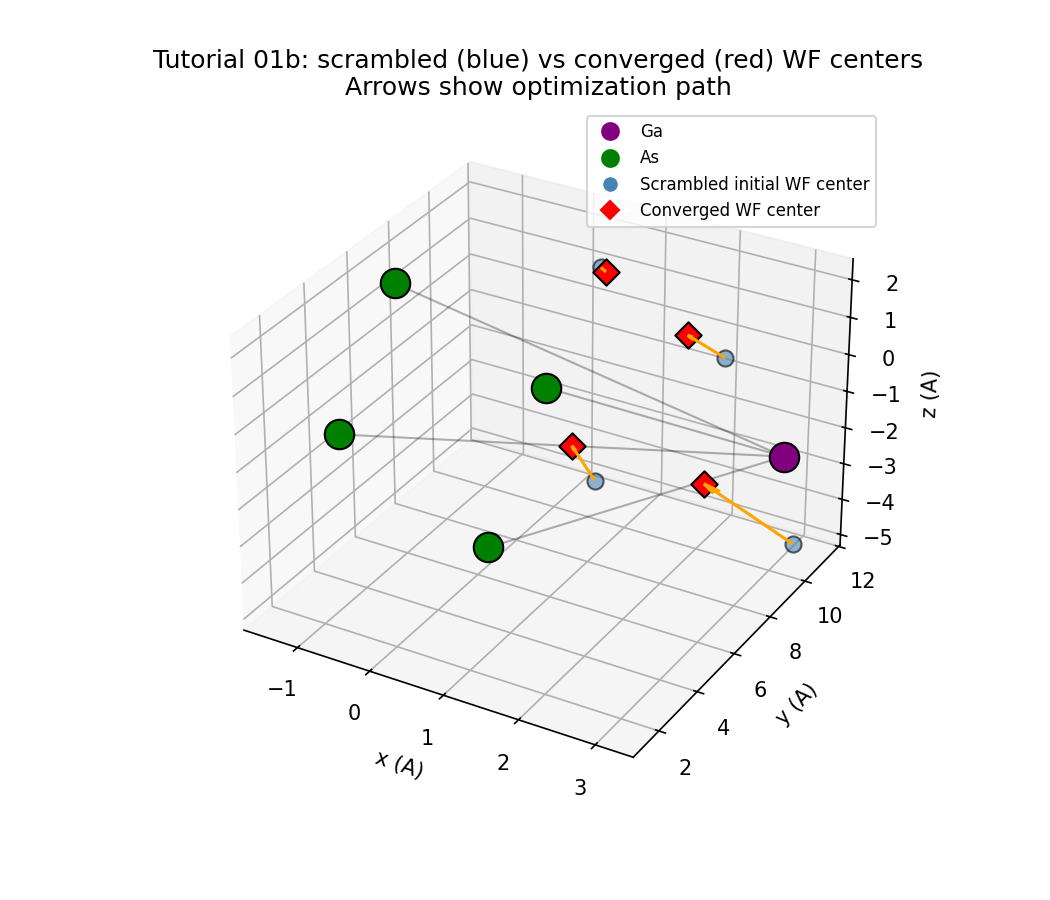
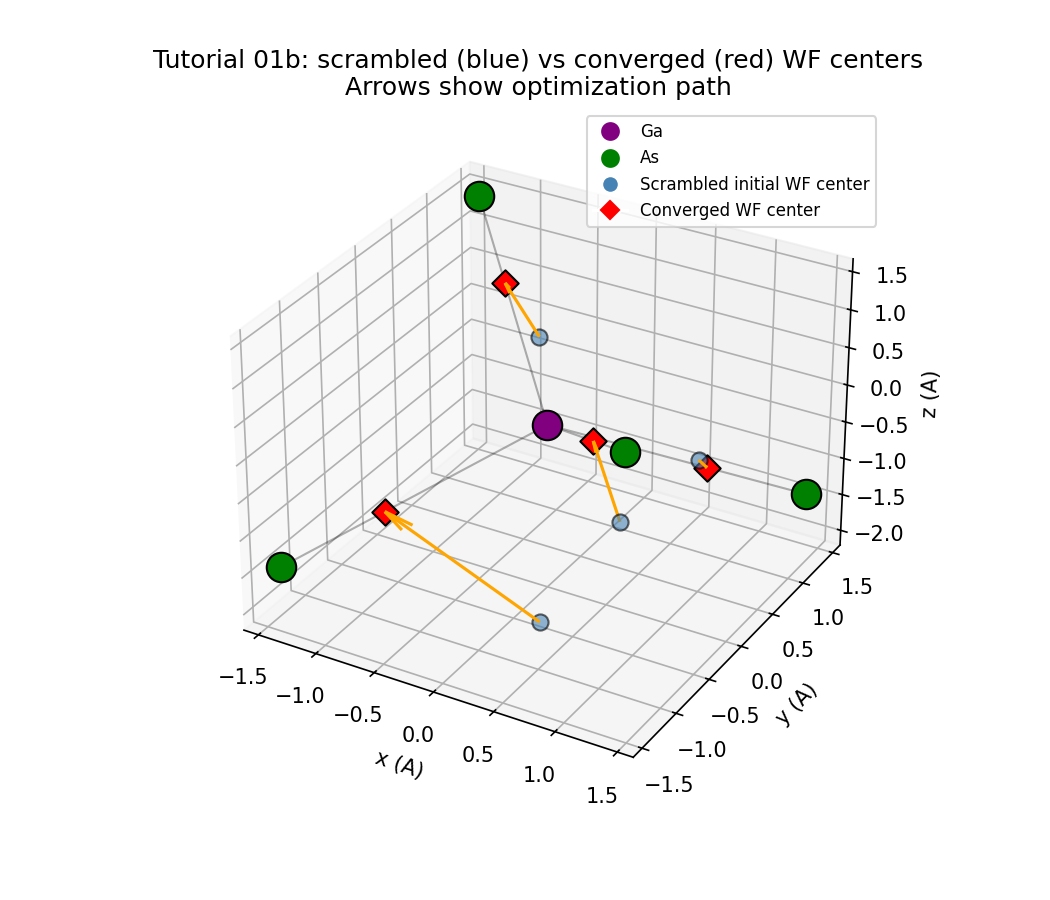
Fix 3D plot: shift WF centers to home-cell Ga atom
The branch-cut correction can place centers at distant periodic
images.  Always shift to the Ga in the home unit cell (at the
origin) rather than chasing a Ga image near the first WF center.

https://claude.ai/code/session_013BsgFVBpB7yJMQinjy6qx9

diff --git a/tutorials/tutorial01/tutorial01b.py b/tutorials/tutorial01/tutorial01b.py
@@ -295,10 +295,9 @@ try:
     ga_pos = atoms[[a.symbol == 'Ga' for a in atoms]].positions[0]
     as_pos = atoms[[a.symbol == 'As' for a in atoms]].positions[0]
 
-    # Shift each converged center to be nearest to a common Ga atom.
-    # First, pick the Ga image nearest to the first converged center.
-    ga_center = shift_to_nearest(ga_pos, final_plot[0], cell)
-    # Then shift all converged centers to be nearest to this Ga.
+    # Shift each converged center by lattice vectors to be nearest
+    # to the Ga atom in the home unit cell.
+    ga_center = ga_pos.copy()
     for w in range(Nw):
         final_plot[w] = shift_to_nearest(final_plot[w], ga_center, cell)
 
